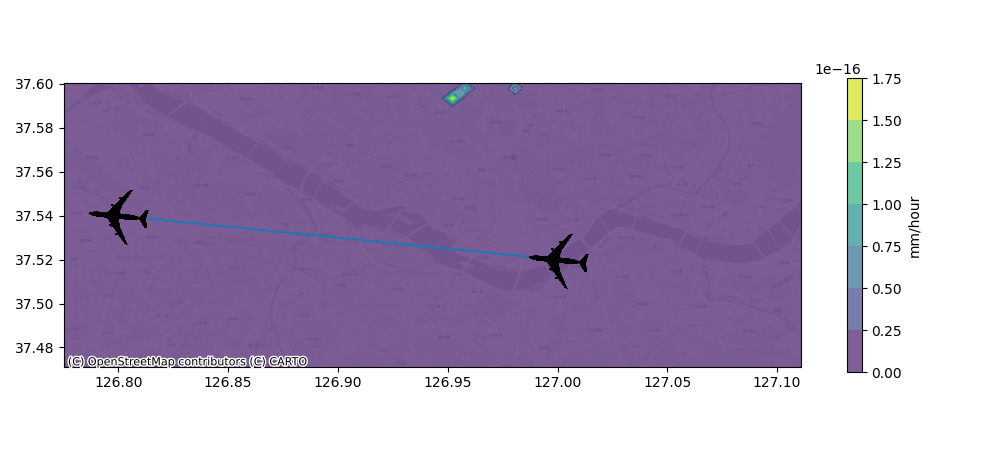
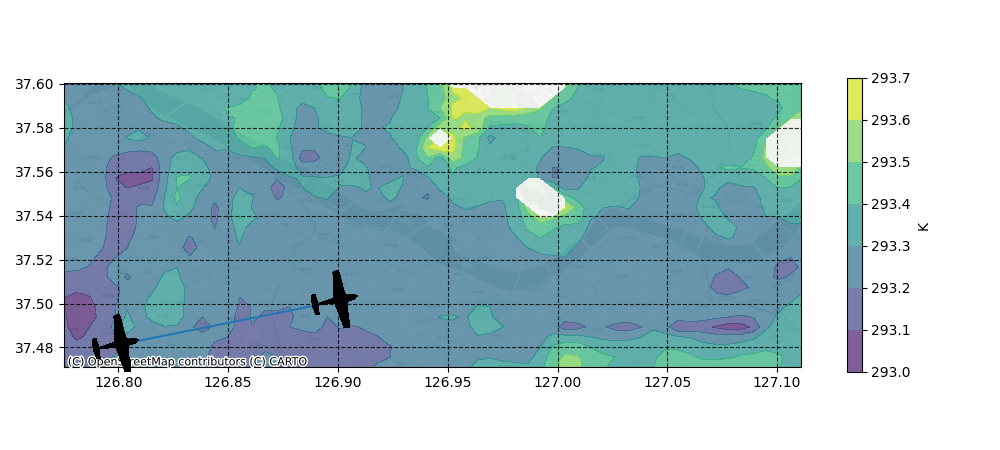
main

diff --git a/webapp/main.py b/webapp/main.py
@@ -285,7 +285,7 @@ def plotstreamline(ncdata,fig,ax):
     ax.set_ylim(Y[0,0],Y[-2,-2])
     #ax.set_yticks([])
     plt.tight_layout()
-
+    plt.grid(True, color='black', alpha=0.8, linestyle='--')
     cx.add_basemap(ax, crs=4004,source=cx.providers.CartoDB.Positron) #crs='WGS84',
         
     def update(frame_no):
@@ -342,13 +342,14 @@ def load_data(date, time, isstreamline, parameter):
     lonlist = [lon1, lon2]
     latlist = [lat1, lat2]
     image_path = get_sample_data(path+'/plane.png')
-    imscatter(lonlist, latlist, image_path, zoom=0.05, ax=ax)
+    imscatter(lonlist, latlist, image_path, zoom=0.02, ax=ax)
     ax.plot(lonlist, latlist)
     if (isstreamline=="Active"):
         plotstreamline(ncf0,fig,ax)
     else:
         cx.add_basemap(ax, crs=4004,source=cx.providers.CartoDB.Positron) #crs='WGS84',
         plt.tight_layout()
+        plt.grid(True, color='black', alpha=0.8, linestyle='--')
         plt.savefig('savefig_default.png')
         file_ = open("./savefig_default.png", "rb")
         contents = file_.read()
@@ -388,7 +389,7 @@ def imscatter(x, y, image, ax=None, zoom=1):
     except TypeError:
         # Likely already an array...
         pass
-    angle = np.arctan2(lon2-lon1,lat2-lat1)*(180/np.pi)
+    angle = 45+np.arctan2(lon2-lon1,lat2-lat1)*(180/np.pi)
     rotated = rotate_bound(image, angle)
     im = OffsetImage(rotated, cmap=plt.cm.gray_r, zoom=zoom)
     x, y = np.atleast_1d(x, y)
